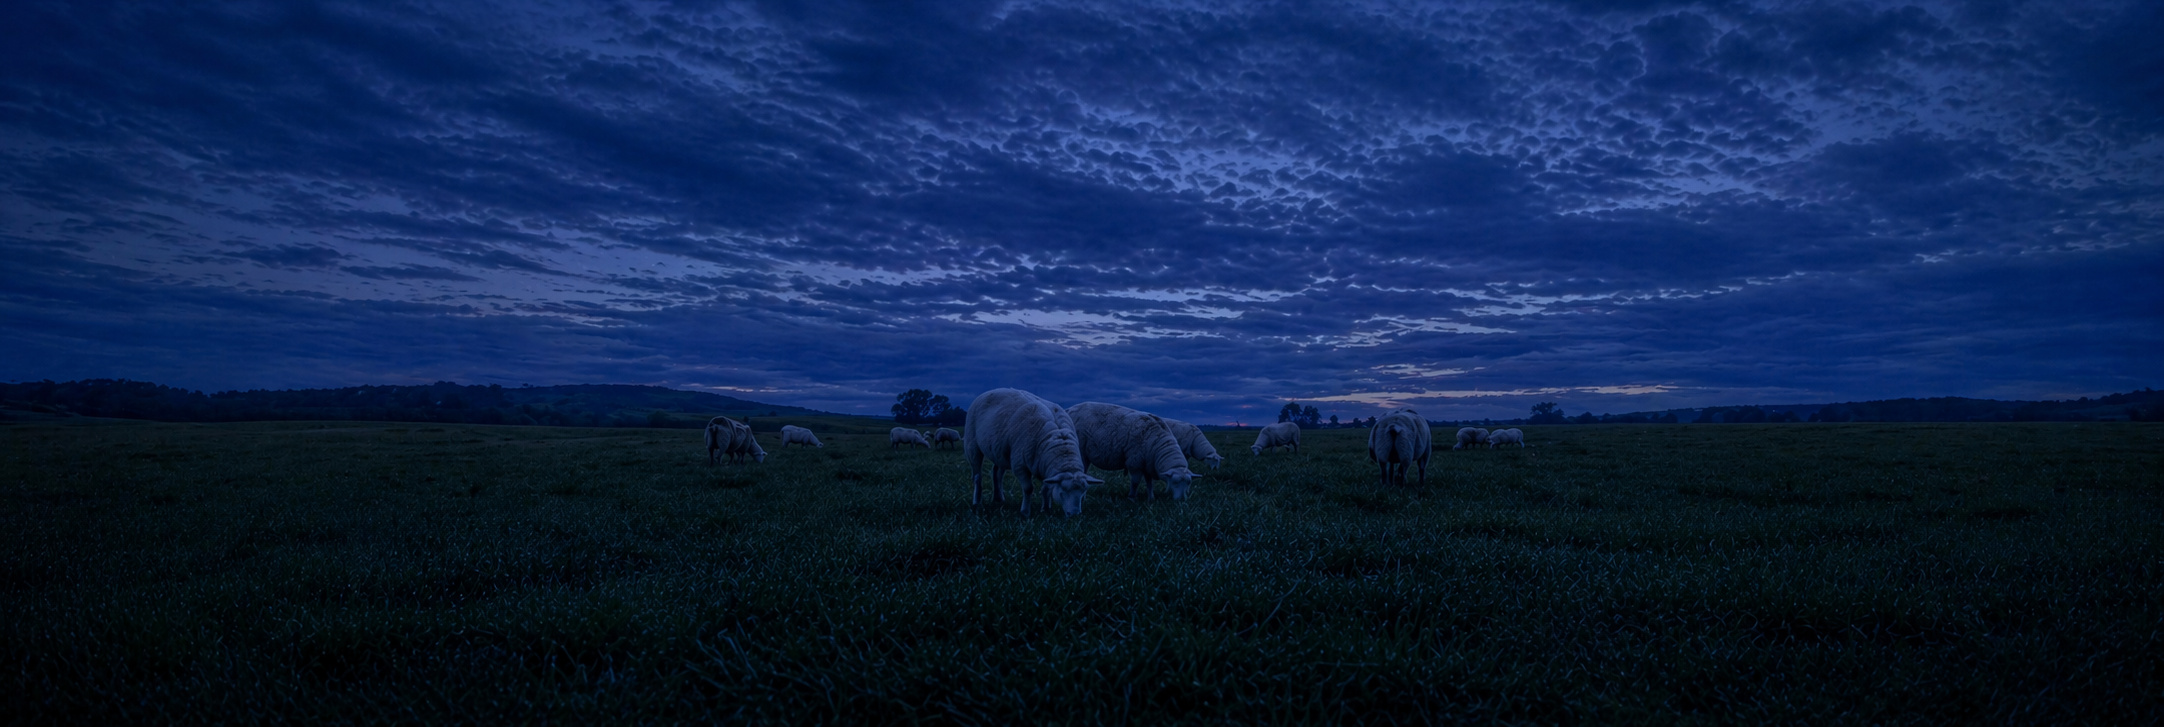
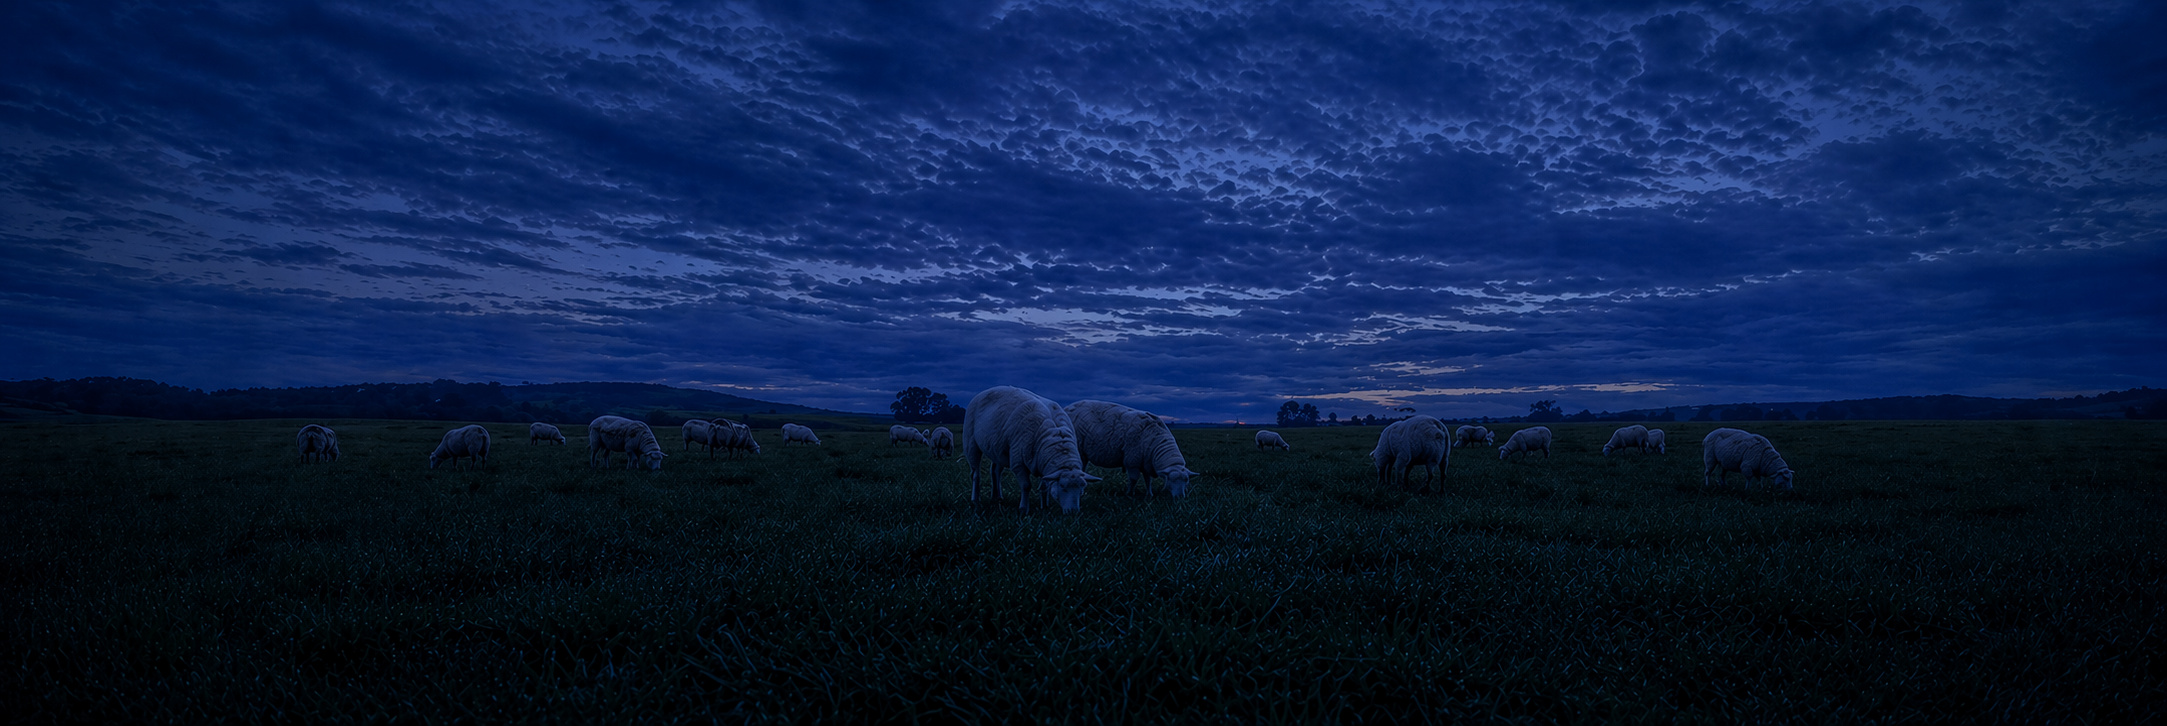
chore: update Hugo version to 0.164.0 and adjust related configurations feat: update snapshots and README for version 1.12 fix: correct language code references in templates style: modify hero background repeat behavior in CSS

diff --git a/layouts/shortcodes/workrave-meta.html b/layouts/shortcodes/workrave-meta.html
@@ -1,15 +1,15 @@
 {{- $type := .Get 0 -}}
 
 {{- with (eq $type "win32-download-link") -}}
-{{- $version :=$.Site.Data.workrave.version -}}
+{{- $version :=hugo.Data.workrave.version -}}
 {{- $tag := replace $version "." "_" -}}
 https://github.com/rcaelers/workrave/releases/download/v{{ $tag }}/workrave-win32-v{{ $version }}.exe
 {{- end -}}
 
 {{- with (eq $type "date-latest-release") -}}
-{{- $.Site.Data.workrave.date -}}
+{{- hugo.Data.workrave.date -}}
 {{- end -}}
 
 {{- with (eq $type "version-latest-release") -}}
-{{- $.Site.Data.workrave.version -}}
+{{- hugo.Data.workrave.version -}}
 {{- end -}}

diff --git a/themes/workrave/assets/css/imports/base.css b/themes/workrave/assets/css/imports/base.css
@@ -65,7 +65,7 @@ body {
 }
 
 .hero {
-    background: url(/images/hero1.jpg) bottom center no-repeat var(--jumbotron-background-color);
+    background: url(/images/hero1.jpg) bottom center repeat-x var(--jumbotron-background-color);
     background-size: auto auto;
 }
 

diff --git a/themes/workrave/layouts/_default/baseof.html b/themes/workrave/layouts/_default/baseof.html
@@ -1,5 +1,5 @@
 <!DOCTYPE html>
-<html lang="{{ $.Site.LanguageCode | default "en" }}">
+<html lang="{{ $.Site.Language.Locale | default "en" }}">
     <head>
         {{ partial "base/metas.html" . }}
         {{ partial "base/styles.html" . }}

diff --git a/content/en/snapshots/_index.md b/content/en/snapshots/_index.md
@@ -3,10 +3,7 @@ slug: snapshots
 title: Download Workrave development releases
 linkTitle: snapshots
 ---
-The version 1.10 development releases are based on the stable 1.10 release.
+The version 1.11 development releases are based on the stable 1.11 release.
 
-The version 1.11 development releases of Workrave are a preview of an upcoming new release of Workrave.
-This release has seen a lot of internal cleanup and code modernization, but very few new features.
-The most interesting change in version 1.11 is a port to macOS using Qt5. This port is not yet ready.
-
-Note that the version 1.11 did not get as much testing as the official 1.10 release and may be less stable. Please also use it for testing purposes.
+The version 1.12 development releases of Workrave are a preview of an upcoming new release of Workrave.
+The most interesting change in version 1.12 is a port to Qt6.

diff --git a/README.md b/README.md
@@ -4,7 +4,7 @@
 
 ## Install Prequisites
 
-- Install [Hugo](http://gohugo.io)
+- Install [Hugo 0.164.0](https://gohugo.io)
 
     See the [official install instructions](https://gohugo.io/getting-started/installing/) for more information.
 

diff --git a/content/en/snapshots/v1_12.md b/content/en/snapshots/v1_12.md
@@ -1,7 +1,7 @@
 ---
-title: Workrave 1.10
-weight: 1
-branch: v1.10
+title: Workrave 1.12
+weight: 2
+branch: v1.12
 build:
   list: always
   render: never

diff --git a/content/en/snapshots/v1_11.md b/content/en/snapshots/v1_11.md
@@ -1,6 +1,6 @@
 ---
 title: Workrave 1.11
-weight: 2
+weight: 1
 branch: v1.11
 build:
   list: always
